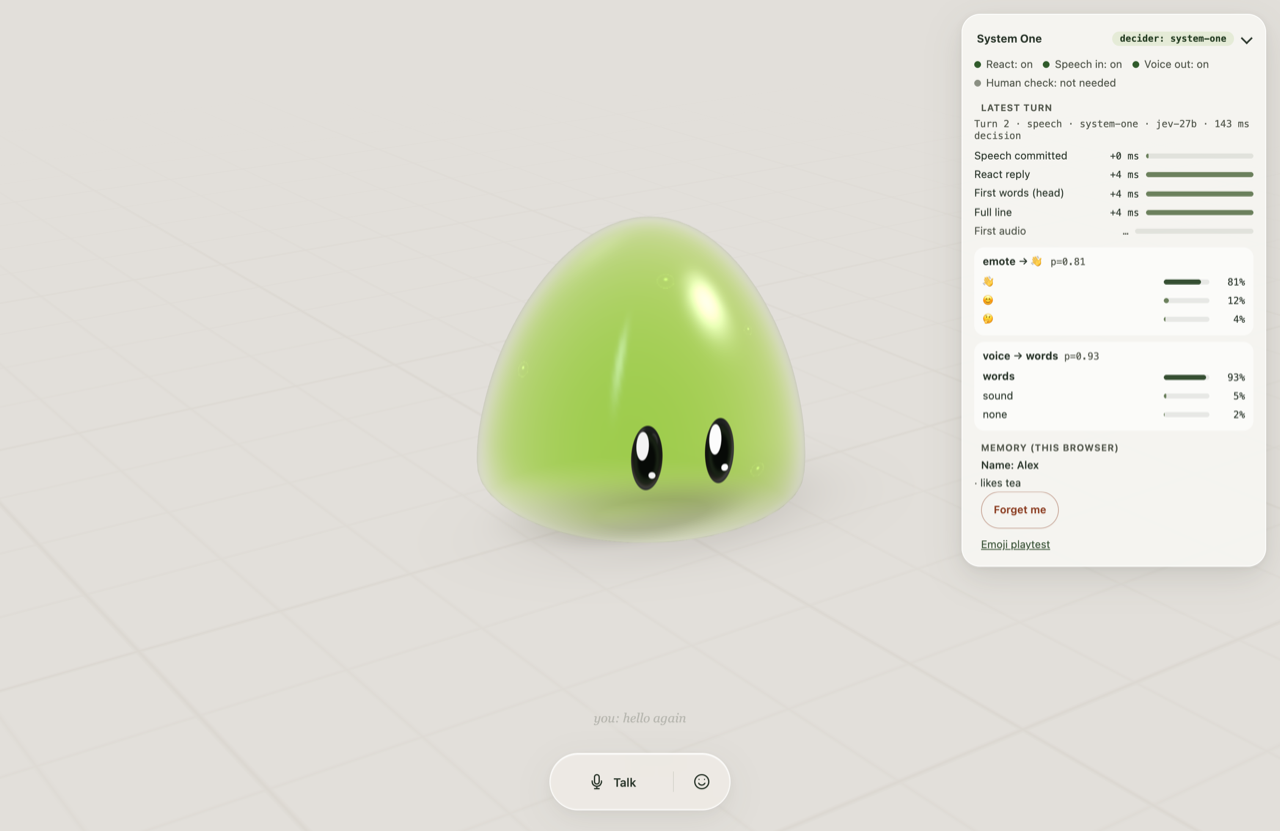
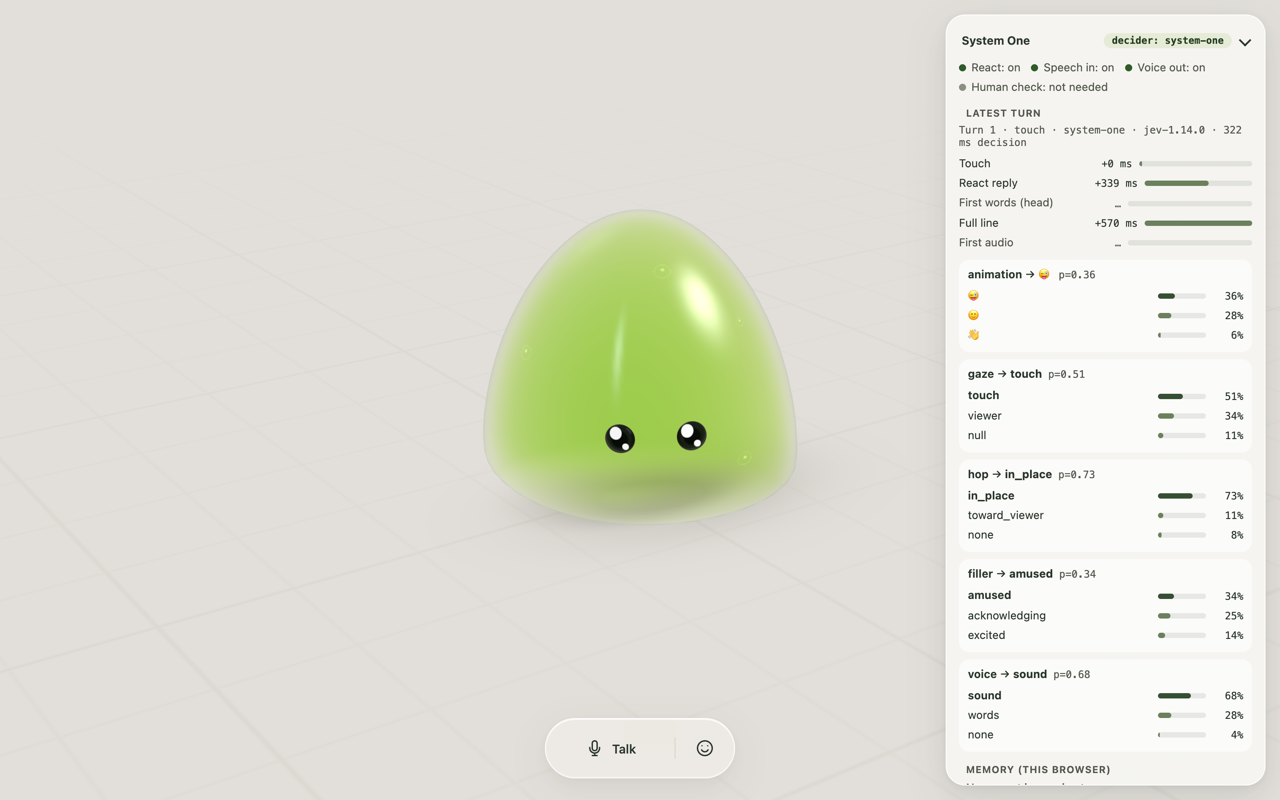
docs: measured speech-end-to-audio latency, real debug overlay capture
- ARCHITECTURE: pre-registered Scribe v3 Live benchmark results (stage latencies, endpointing trade-off, cost per turn)
- README debug image replaced with a real-provider capture
- tools/qualify-stt.mjs: --out DIR required; per-trial results written as they complete

diff --git a/docs/ARCHITECTURE.md b/docs/ARCHITECTURE.md
@@ -405,13 +405,30 @@ The Node server has a smaller public mode (`--public <origin>`): per-UTC-day req
 
 ## Latency
 
-Only numbers present in the code, its comments or its tests are quoted here.
+Numbers here come from the code, its comments and tests, or from the benchmark below.
 
 - **Limits.** System One has an 800 ms limit per call, set as "selection p95 575 ms plus 225 ms margin" ([server/jev.mjs](../server/jev.mjs)). `/api/react` has a 4 s overall limit and `/api/say` 12 s. The LLM first-token hedge fires at 900 ms by default.
 - **Recorded measurements in source comments.** A hedge was judged unnecessary for System One because its p95 was measured near 210 ms. Pre-connecting to the model hosts when Talk is pressed (the `HEAD` requests behind `/api/stt-token`) was recorded as taking a first System One call from 237-304 ms to 126-160 ms, and the median of a warm key-free request from 176 ms cold to 67 ms. These come from the authors' own runs and are not a published benchmark.
 - **Targets for speech-to-text.** [tools/qualify-stt.mjs](../tools/qualify-stt.mjs) defines acceptance gates for Scribe v3 Live (a committed transcript 1.5 s at the median and 3.0 s at the max after the last speech sample, word error rate at most 0.15 per utterance). These are pass or fail thresholds, not results.
 - **Per-turn timings.** The `?debug` overlay shows a timeline per turn (commit, react reply, head, line, first audio), `server-timing` carries the decision time, and `?trace=1` records a finer client trace ([web/trace.js](../web/trace.js)).
 
-<!-- TODO: Scribe v3 Live benchmark numbers from evidence/stt-scribe-v3-20261115 -->
+### Measured: speech end to first audio (2026-11-16)
+
+This benchmark was pre-registered and run on an Apple M1 Max against the live providers.
+- **Audio:** synthetic stock-voice clips streamed at 1× real time, never a microphone.
+- **Path:** server level, through the real `/api/stt-token`, `/api/react` and `/api/say`. No browser and no acoustic playback.
+- **Sample:** 36 English, Spanish, mixed and Russian clips, 1 run each. Times are from the audio's speech end.
+
+| Stage | p50 | p95 |
+|---|---|---|
+| STT commit (Scribe v3 Live, `turn_prediction`) | 1282 ms | 1391 ms |
+| First reaction frame | 1410 ms | 1523 ms |
+| First sentence ready (26 turns) | 1698 ms | 1875 ms |
+| Full line ready | 1764 ms | 1930 ms |
+| First TTS audio byte (32 spoken turns) | 1958 ms | 2169 ms |
+
+- **System One:** it decided all 36 turns and chose silence for 4.
+- **Where the time goes:** speech-to-text endpointing is the largest stage. Across 108 clean turns, `turn_prediction` committed at a p50 of 1266 ms and never cut a speaker off. Silence-based VAD at 0.5 s committed about 0.49 s sooner but split 3 of 108 turns. The difference comes from the 1 s `vad_silence_threshold_secs` that [web/voice.js](../web/voice.js) sends. Lowering it trades latency for early cut-offs; at 0.192 s, 4 of 36 hesitant utterances split.
+- **Cost:** a turn cost a median of $0.0017 in provider fees. This is estimated from published prices, except the LLM, which reports its own cost.
 
 ![Emote strip](images/emote-strip.png)

diff --git a/README.md b/README.md
@@ -37,7 +37,7 @@ Voice does not work without keys. The browser app only calls `/api/react` when `
 
 Add `?debug` to the URL for an overlay that shows which decider answered, its per-option probabilities, a turn timeline and what Mintie remembers.
 
-![Debug overlay](docs/images/app-debug.png)
+![Debug overlay after a real touch turn: System One (Jev) answered five questions in 322 ms](docs/images/app-debug.png)
 
 ## Adding keys
 
